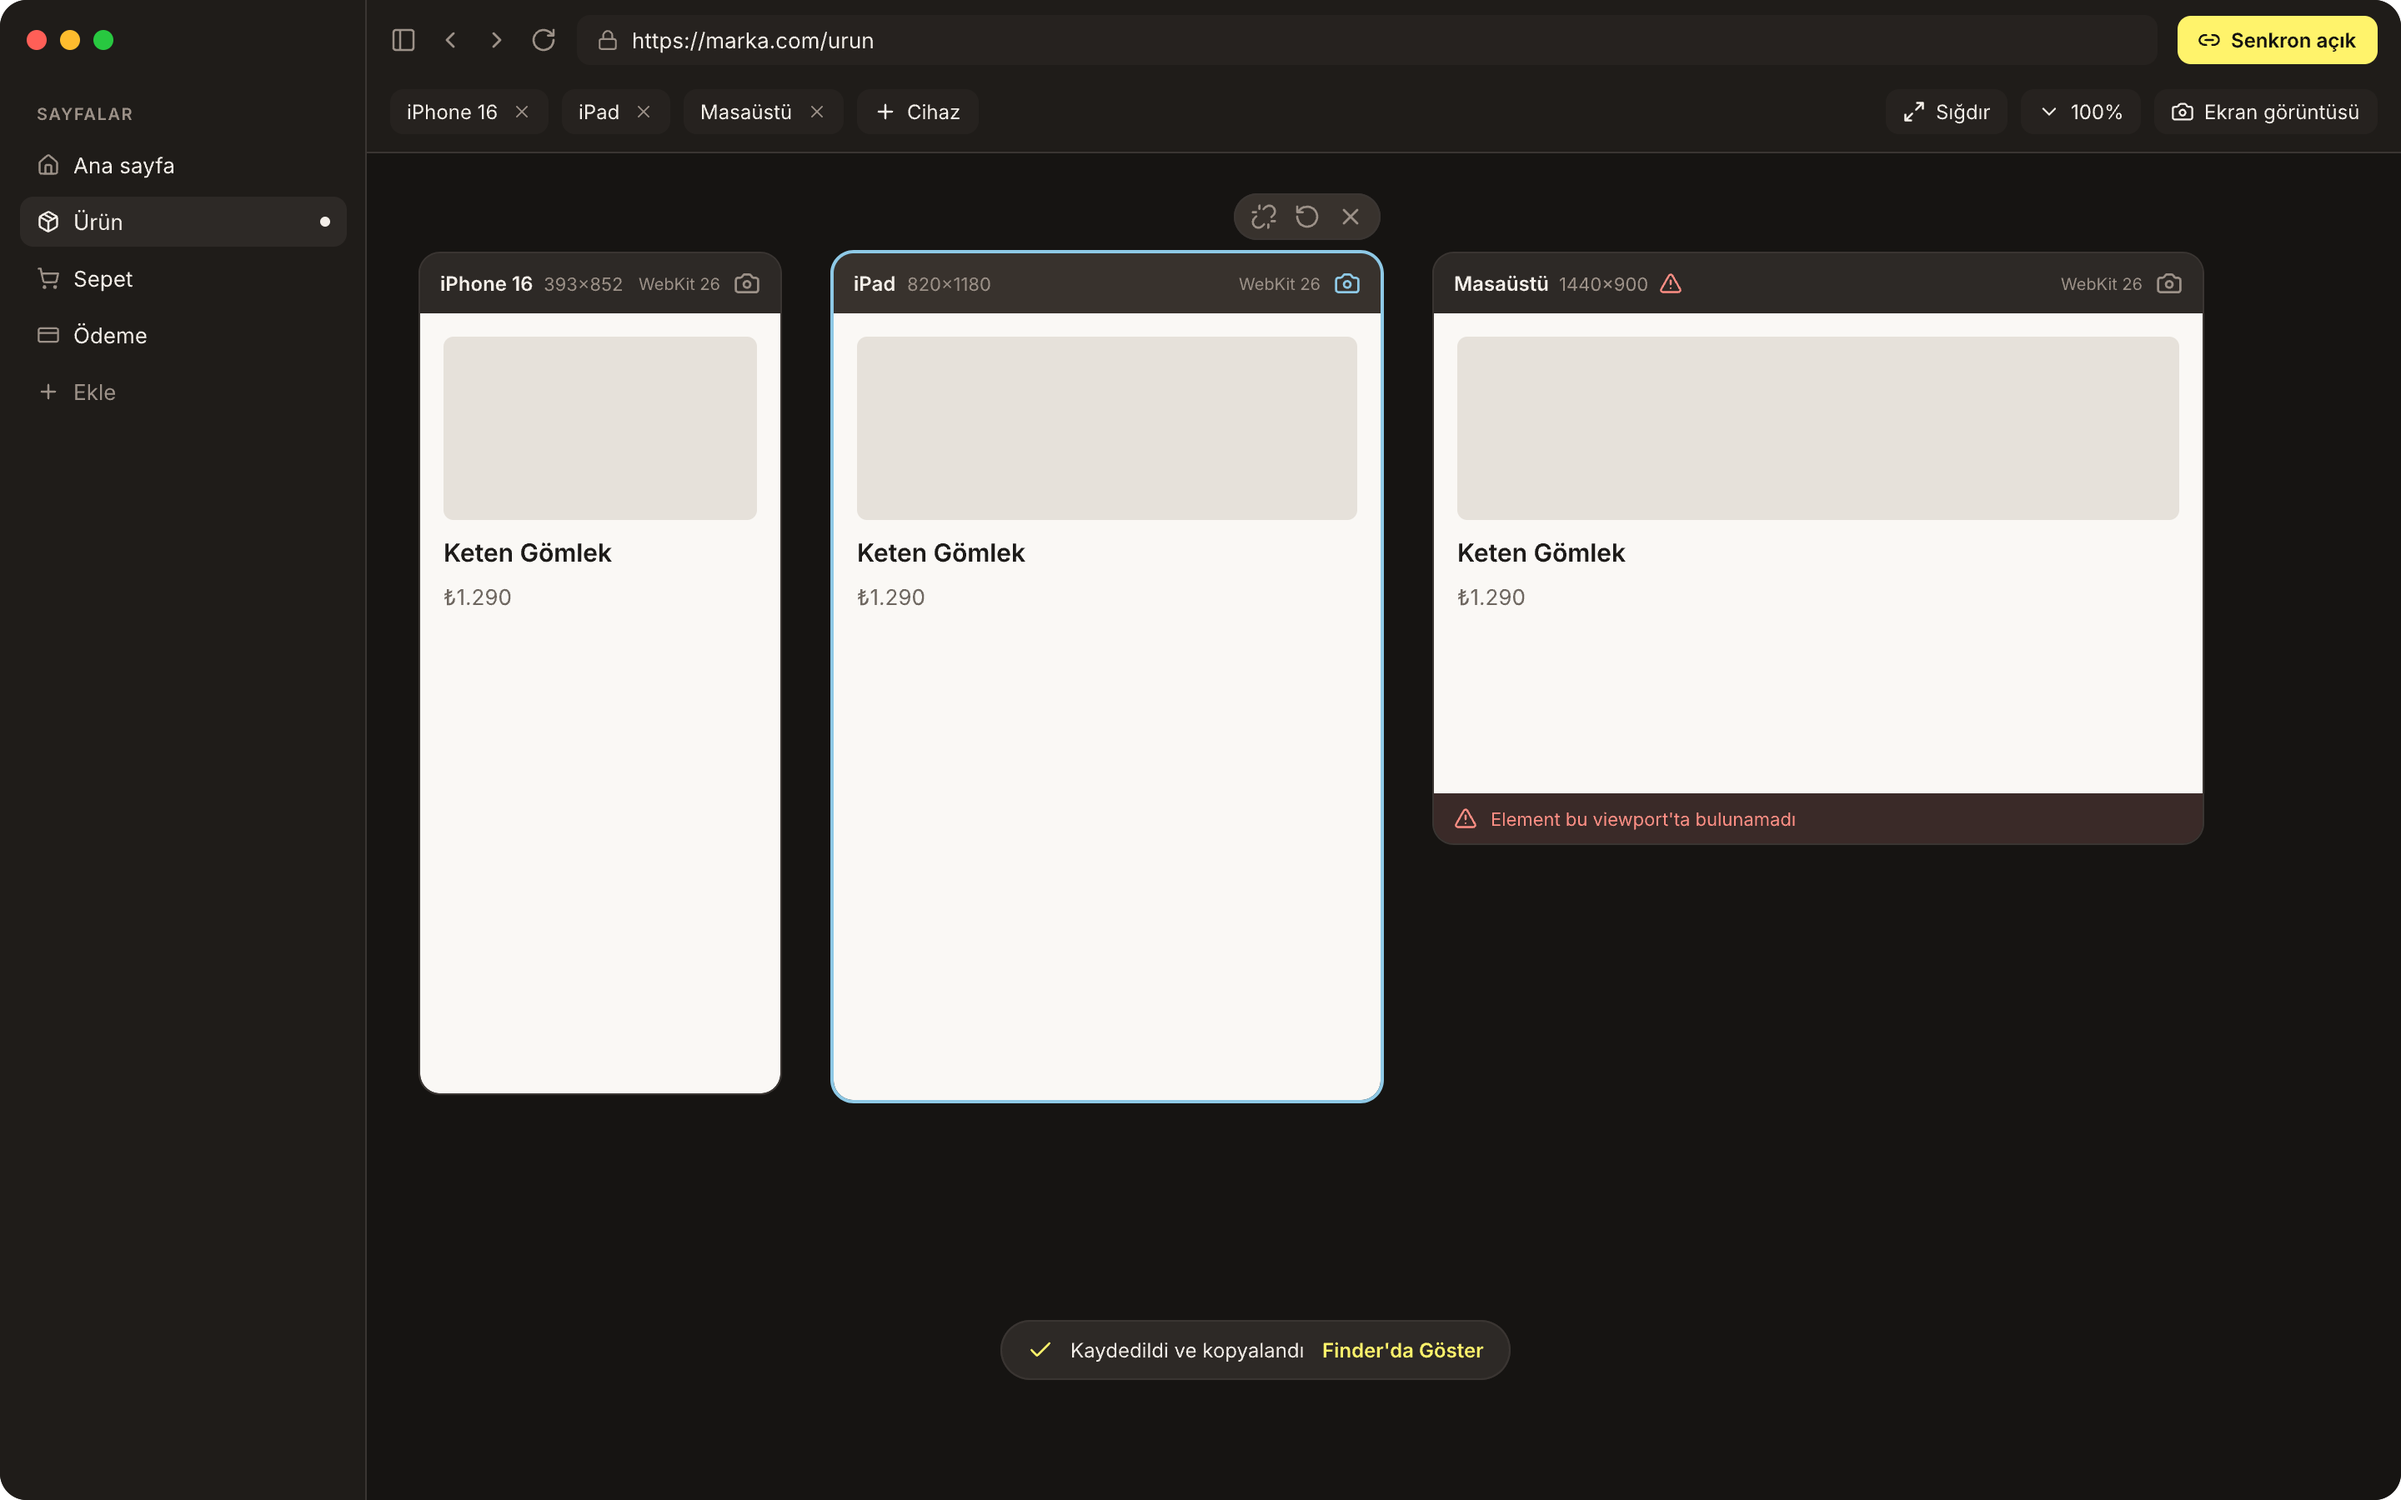
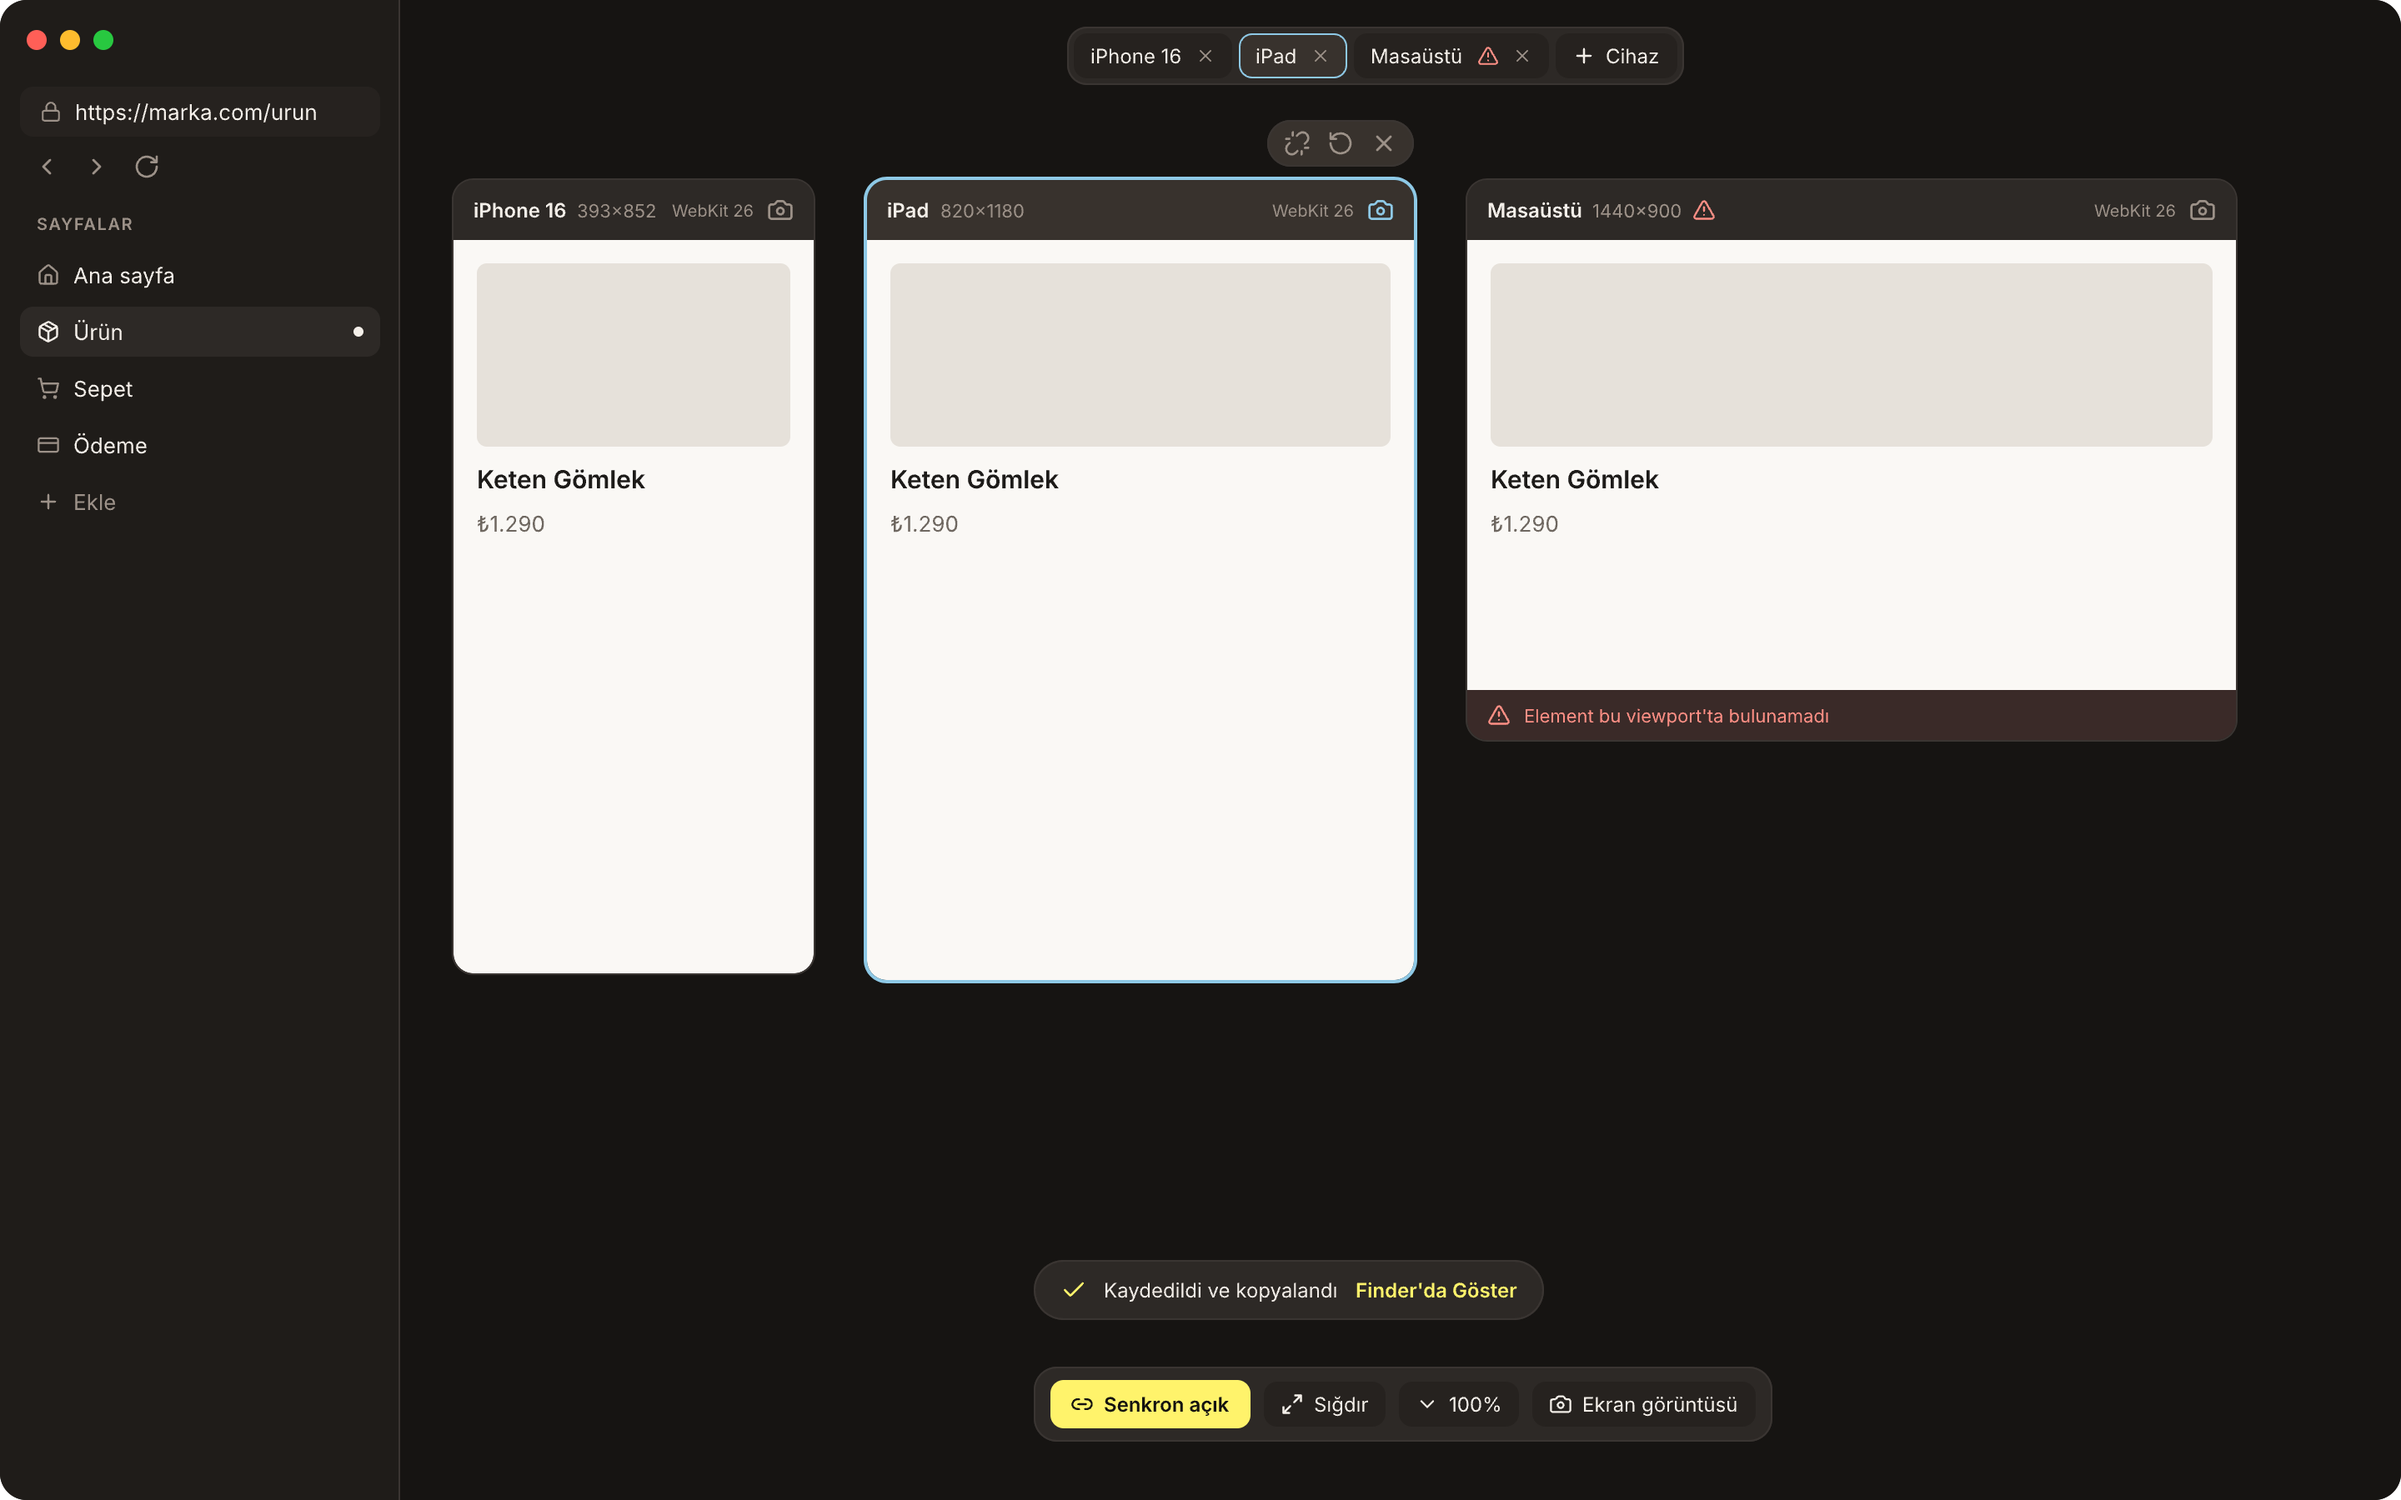
Finalize project window layout (B2) with status tabs and overflow strip

diff --git a/DESIGN.md b/DESIGN.md
@@ -69,22 +69,27 @@ Referans: pen.dev'in giriş ekranı. AI istem kutusunun yerini URL kutusu alır.
 
 ```
 ┌──────────┬───────────────────────────────────────────────────────┐
-│ SAYFALAR │ ‹ › ⟳   https://marka.com/urun   + Cihaz  Sığdır 100% │
-│ Ana sayfa├───────────────────────────────────────────────────────┤
-│ Ürün   ● │                                                       │
-│ Sepet    │  ┌ iPhone 16 · WebKit 26 ┐ ┌ iPad · WebKit ┐ ┌ Masa ┐ │
-│ Ödeme    │  │                       │ │               │ │      │ │
-│          │  │                       │ │               │ │      │ │
-│ + Ekle   │  └───────────────────────┘ └───────────────┘ └──────┘ │
-│          │                                                       │
+│ ● ● ●    │           [iPhone 16 ×][iPad ×][Masaüstü ⚠ ×][+ Cihaz] │
+│ 🔒 URL   │                                                       │
+│ ‹ › ⟳    │  ┌ iPhone 16 · 393×852 · WebKit ┐ ┌ iPad ┐ ┌ Masa ⚠ ┐ │
+│ SAYFALAR │  │                              │ │      │ │        │ │
+│ Ana sayfa│  │                              │ │      │ │        │ │
+│ Ürün   ● │  └──────────────────────────────┘ └──────┘ └────────┘ │
+│ Sepet    │                                                       │
+│ Ödeme    │              ( ✓ Kaydedildi · Finder'da Göster )      │
+│ + Ekle   │       [ Senkron açık ][ Sığdır ][ 100% ][ 📷 ]         │
 └──────────┴───────────────────────────────────────────────────────┘
 ```
 
-- **Sidebar:** projenin sayfa listesi. Tıklayınca tüm viewport'lar o sayfaya gider. Ekleme, kaldırma, yeniden adlandırma, sürükleyerek sıralama. "Bu sayfayı ekle" ile o an açık URL listeye girer. Gizlenebilir. M3'te viewport listesi ve gruplar da buraya gelir.
-- **Toolbar:** geri/ileri/yenile, URL alanı, cihaz ekle, "Sığdır", zoom yüzdesi, senkron açık/kapalı.
-- **Viewport kartı:** başlıkta cihaz adı, boyut, motor ve sürüm; kapatma; (M3) döndürme, senkrondan çıkarma, motor değiştirme.
-- **Lider göstergesi:** imlecin üstünde olduğu viewport hafifçe vurgulanır.
-- **"Senkron kaçtı" göstergesi:** tıklanan element bu viewport'ta bulunamadıysa başlıkta küçük bir uyarı.
+Üst çubuk yok. Üç kontrol yüzeyi, her biri tek iş yapar:
+
+- **Sidebar (220, varsayılan açık):** üstte traffic lights, URL alanı ve geri/ileri/yenile; altında "SAYFALAR" listesi (tıklayınca tüm viewport'lar o sayfaya gider; ekleme, kaldırma, yeniden adlandırma, sürükleyerek sıralama; "+ Ekle"). Kapanınca ışıklar, sidebar düğmesi, nav ve URL canvas'ın üst solunda tek bir yüzen kapsüle taşınır (aynı sırayla), canvas tam genişliği alır.
+- **Cihaz sekmeleri (canvas üstünde yüzen şerit):** açık viewport'lar sırayla; her sekme kartla aynı durumu taşır (lider gök çerçeve, senkron kaçtı mercan üçgen, yükleniyor dönen ikon, snapshot resim ikonu). Sığmayınca şerit kayar (kenarda solma + ok); sağda "+N" çipi gizli cihazların en ciddi durumunu gösterir (hata > lider > yükleniyor > normal) ve menü açar: her gizli cihaz için ad, boyut · motor · durum metni, odakla düğmesi; altta "Tümünü sidebar'da göster". Sekme adı asla kısaltılmaz, durum ikonu asla gizlenmez. Sonda "+ Cihaz".
+- **Alt yüzen çubuk:** Senkron açık/kapalı (sarı), Sığdır, zoom yüzdesi (menü), ekran görüntüsü menüsü. Bildirim kapsülü bu çubuğun üstüne çıkar.
+- **Viewport kartı:** kompakt tek satır başlık: cihaz adı, boyut, sağda motor ve kamera düğmesi. Hover'da kapat / döndür / senkrondan çıkar kartın üstünde yüzen şeritte. Durumlar §4'te.
+- **Lider göstergesi:** imlecin üstünde olduğu viewport gök çerçeve ve parlak başlıkla vurgulanır; sekmesi de aynı renkte.
+- **"Senkron kaçtı" göstergesi:** başlıkta mercan üçgen, kartın altında "Element bu viewport'ta bulunamadı" notu; sekmede de üçgen.
+- Inspector şimdilik yok; gelince seçeneklere bakılır. Geliştirici paneli §3.3.
 
 ### 3.3 Geliştirici paneli (M5+)
 
@@ -105,7 +110,9 @@ Alt veya sağ panel. Motor diff listesi ("Buton Safari'de 12px aşağıda"), tı
 | Koyu canvas; renk paleti: vurgu sarı `#FFF36B`, lider gök `#8EC9E6`, uyarı yumuşak mercan `#FF8F85`; zemin sıcak siyah `#161412`. Sarı yalnızca eylem ve onay için (üstündeki yazı koyu `#141210`). Lider ve uyarı yalnızca renkle değil şekille de ayrışır (çerçeve + parlak başlık / üçgen ikon). Açık tema ayrıca çizilecek | 2026-10-10 |
 | Viewport kartı: çerçevesiz (cihaz çerçevesi yok); kompakt tek satır başlık: ad, boyut, sağda motor ve kamera düğmesi (kamera başlıkta hep görünür, varsayım); hover'da kapat / döndür / senkrondan çıkar eylemleri kartın üstünde yüzen küçük bir şeritte (başlık değişmez, motor ve boyut her an görünür) | 2026-10-10 |
 | Kart durumu `loading`: başlık altında 3 px açık krem ilerleme çizgisi + kamera yerine dönen yükleme ikonu (iskelet veya ortada kutu yok) | 2026-10-10 |
-| Proje penceresi: sidebar varsayılan açık (220 pt); inspector şimdilik yok (gelince seçeneklere bakılır); toolbar iki satır: üstte geri/ileri/yenile + URL + senkron, altta cihaz sekmeleri + "+ Cihaz" + Sığdır/zoom + ekran görüntüsü menüsü | 2026-10-10 |
+| ~~Toolbar iki satır (üstte nav+URL+senkron, altta cihaz sekmeleri + zoom)~~ — yerini aldı, aşağıya bak | 2026-10-10 |
+| Proje penceresi düzeni (B2): üst çubuk yok; URL ve nav sidebar'ın tepesinde; cihaz sekmeleri canvas üstünde yüzen şerit; senkron/sığdır/zoom/ekran görüntüsü alt yüzen çubukta; sidebar varsayılan açık (220), kapanınca ışıklar+nav+URL üst sol kapsüle taşınır; inspector sonra. Gerekçe: araştırmada zoom/sığdır hiçbir canvas aracında üst çubukta değil; yüzen paneller (Figma UI3, Sketch) geri alındı, yalnızca alt araç çubuğu kaldı; cihaz sekmeleri çoklu önizlemede canvas'ı tekrarlar, bu yüzden durum taşıyarak değer kazanır | 2026-10-10 |
+| Cihaz sekmeleri durum taşır (lider/senkron kaçtı/yükleniyor/snapshot); taşmada kaydırılabilir şerit + "+N" durum çipi + gizli cihaz menüsü; ad kısaltılmaz. İkon-only sekmeler reddedildi (hata hangi cihazda, tek bakışta okunmalı) | 2026-10-10 |
 
 ## 5. Bekleyen tasarım kararları
 

diff --git a/design/HANDOFF.md b/design/HANDOFF.md
@@ -11,16 +11,16 @@
 - Palet onaylandı (DESIGN.md §4): koyu canvas, vurgu `#FFF36B`, lider `#8EC9E6`, uyarı `#FF8F85`, zemin `#161412`. Denemeler `viewportix.pen` içinde (`Style Exploration`, `Palette Exploration`, `Yellow Palette Exploration`, `Leader Softening`, `Palette Candidate`); onaylanan örnek `Palette Candidate`.
 - Değişkenler (koyu) kuruldu; açık tema değerleri bekliyor.
 - `Viewport/Card` bileşeni kuruldu (`viewportix.pen`, çerçeve `Viewport States` altı durumu gösterir: default, leader, selected, syncMissed, snapshot, loading). Varsayımlar onay bekliyor: selected = `ink/primary` 2 px çerçeve (tutamaç yok), snapshot rozeti sayfa içeriğinin sol üstünde, loading = 3 px çizgi + dönen ikon (onaylandı, L1), syncMissed = başlıkta uyarı ikonu + altta not.
-- Proje penceresi çizildi (`Project Window`, 1440×900, koyu): sidebar 220 açık, iki satırlı toolbar, üç kart (iPad lider ve hover şeridi, Masaüstü syncMissed), bildirim kapsülü. Bileşenler: `Viewport/HoverStrip`, `Window/Toast`, `Sidebar/Row`, `Toolbar/Button`, `Toolbar/DeviceTab`. Dışa aktarım: `design/exports/window-project-dark@2x.png`.
-- Bilinen eksikler: zoom düğmesinde chevron solda (sağda olmalı), sidebar/toolbar durumları (hover, rename), seçili cihaz sekmesi, açık tema.
-- Henüz yok (eski satır, çoğu çözüldü): hover şeridi (`Viewport/HoverStrip`, denemesi `Compact Hover Options` içinde), `Window/Toast`, toolbar, sidebar, ekranlar.
+- Proje penceresi kesinleşti (`Project Window`, B2 düzeni; ayrıca `Project Window · Sidebar kapalı` ve `Project Window · 8 cihaz`). Dışa aktarımlar: `window-project-dark@2x.png`, `window-project-sidebar-collapsed@2x.png`, `window-project-many-devices@2x.png`, `tab-states-overflow-menu@2x.png`. Alternatifler `Alt · …` adıyla dosyada arşiv.
+- Bileşenler: `Viewport/Card`, `Viewport/HoverStrip`, `Window/Toast`, `Sidebar/Row`, `Toolbar/Button`, `Toolbar/DeviceTab` (durum ikonlu).
+- Bilinen eksikler: zoom düğmesinde chevron solda; sidebar hover/rename durumları; "+N" menüsü ve gizli-lider çip rengi yalnızca açıklamada; açık tema.
 
 ## Sıradaki iş
 
 1. `.pen` dosyalarını `design/viewportix.lib.pen` ve `design/viewportix.pen` olarak repoya taşı (kullanıcı pen.dev'de yeniden açacak).
 2. Referans: Apple HIG sayfaları ve kullanıcının vereceği Finder/Keynote ekran görüntüleri.
-3. Değişkenler: koyu renkler tamam; açık tema renkleri, boyutlar ve aralıklar sırada.
-4. `Window/Chrome`, sonra `Viewport/Card` ve altı durumu (default, leader, selected, syncMissed, snapshot, loading).
+3. Giriş ekranı (1040×700), sonra cihaz seçici popover, sonra açık tema.
+4. Boyut ve aralık değişkenleri; zoom düğmesi varyantı; sidebar durumları.
 5. Kod oturumundan gelen yeni öğeler tasarıma girecek (DESIGN.md §5, madde 9–11): kart başlığında kamera düğmesi (`Viewport/Card` hover/başlık satırı), toolbar'da ekran görüntüsü menüsü, pencere altında bildirim kapsülü ("Kaydedildi ve kopyalandı · Finder'da Göster").
 6. Her görsel karar kullanıcıya sorulur, DESIGN.md §4'e tarihiyle işlenir.
 

diff --git a/design/notlar/2026-10-10.md b/design/notlar/2026-10-10.md
@@ -22,3 +22,4 @@
 - Kullanıcı B'yi beğendi, cihaz sekmeleri 'arada' olsun dedi. B2 (sekmeler canvas üstünde yüzen grup) ve B3 (sekmeler alt yüzen çubuğun sol bölmesi) çizildi. Her ikisinde de sidebar'daki CİHAZLAR listesi tekrar oluyor; karar sonrası biri kaldırılacak.
 - B2 için iki durum çizildi: sidebar kapalı (traffic light + nav + URL tek kapsülde canvas üst solunda) ve 8 cihaz (sekme şeridi ilk 5 + '+3' menüsü). Taşma için üç şerit seçeneği: O1 +N menüsü, O2 ikon-only sekmeler (lider adıyla), O3 kaydırılabilir şerit. Karar bekliyor.
 - Kullanıcı O2'yi (ikon-only) reddetti: sekmeler tek bakışta hangi cihazda hangi hata var göstermeli. Toolbar/DeviceTab bileşenine durum ikonu eklendi (syncMissed üçgen, loading dönen, snapshot resim). '+N' çipi gizli cihazların en ciddi durumunu taşır (mercan çerçeve + üçgen). Açılır menü çizildi: GİZLİ CİHAZLAR başlığı, satırda ikon/ad/boyut·motor·durum, odakla düğmesi, altta 'Tümünü sidebar'da göster'. Dışa aktarım tab-states-overflow-menu@2x.png.
+- Kullanıcı: sidebar kapalı hali onaylandı; kaydırılabilir şerit geliştirildi (solma + ok + '+N' durum çipi) ve asıl `Project Window` B2 düzeniyle yeniden kuruldu; sidebar'dan CİHAZLAR listesi çıktı. Eski pencere silindi, alternatifler `Alt · …` olarak arşivlendi. **İşlendi** (DESIGN.md §3.2 ve §4).
